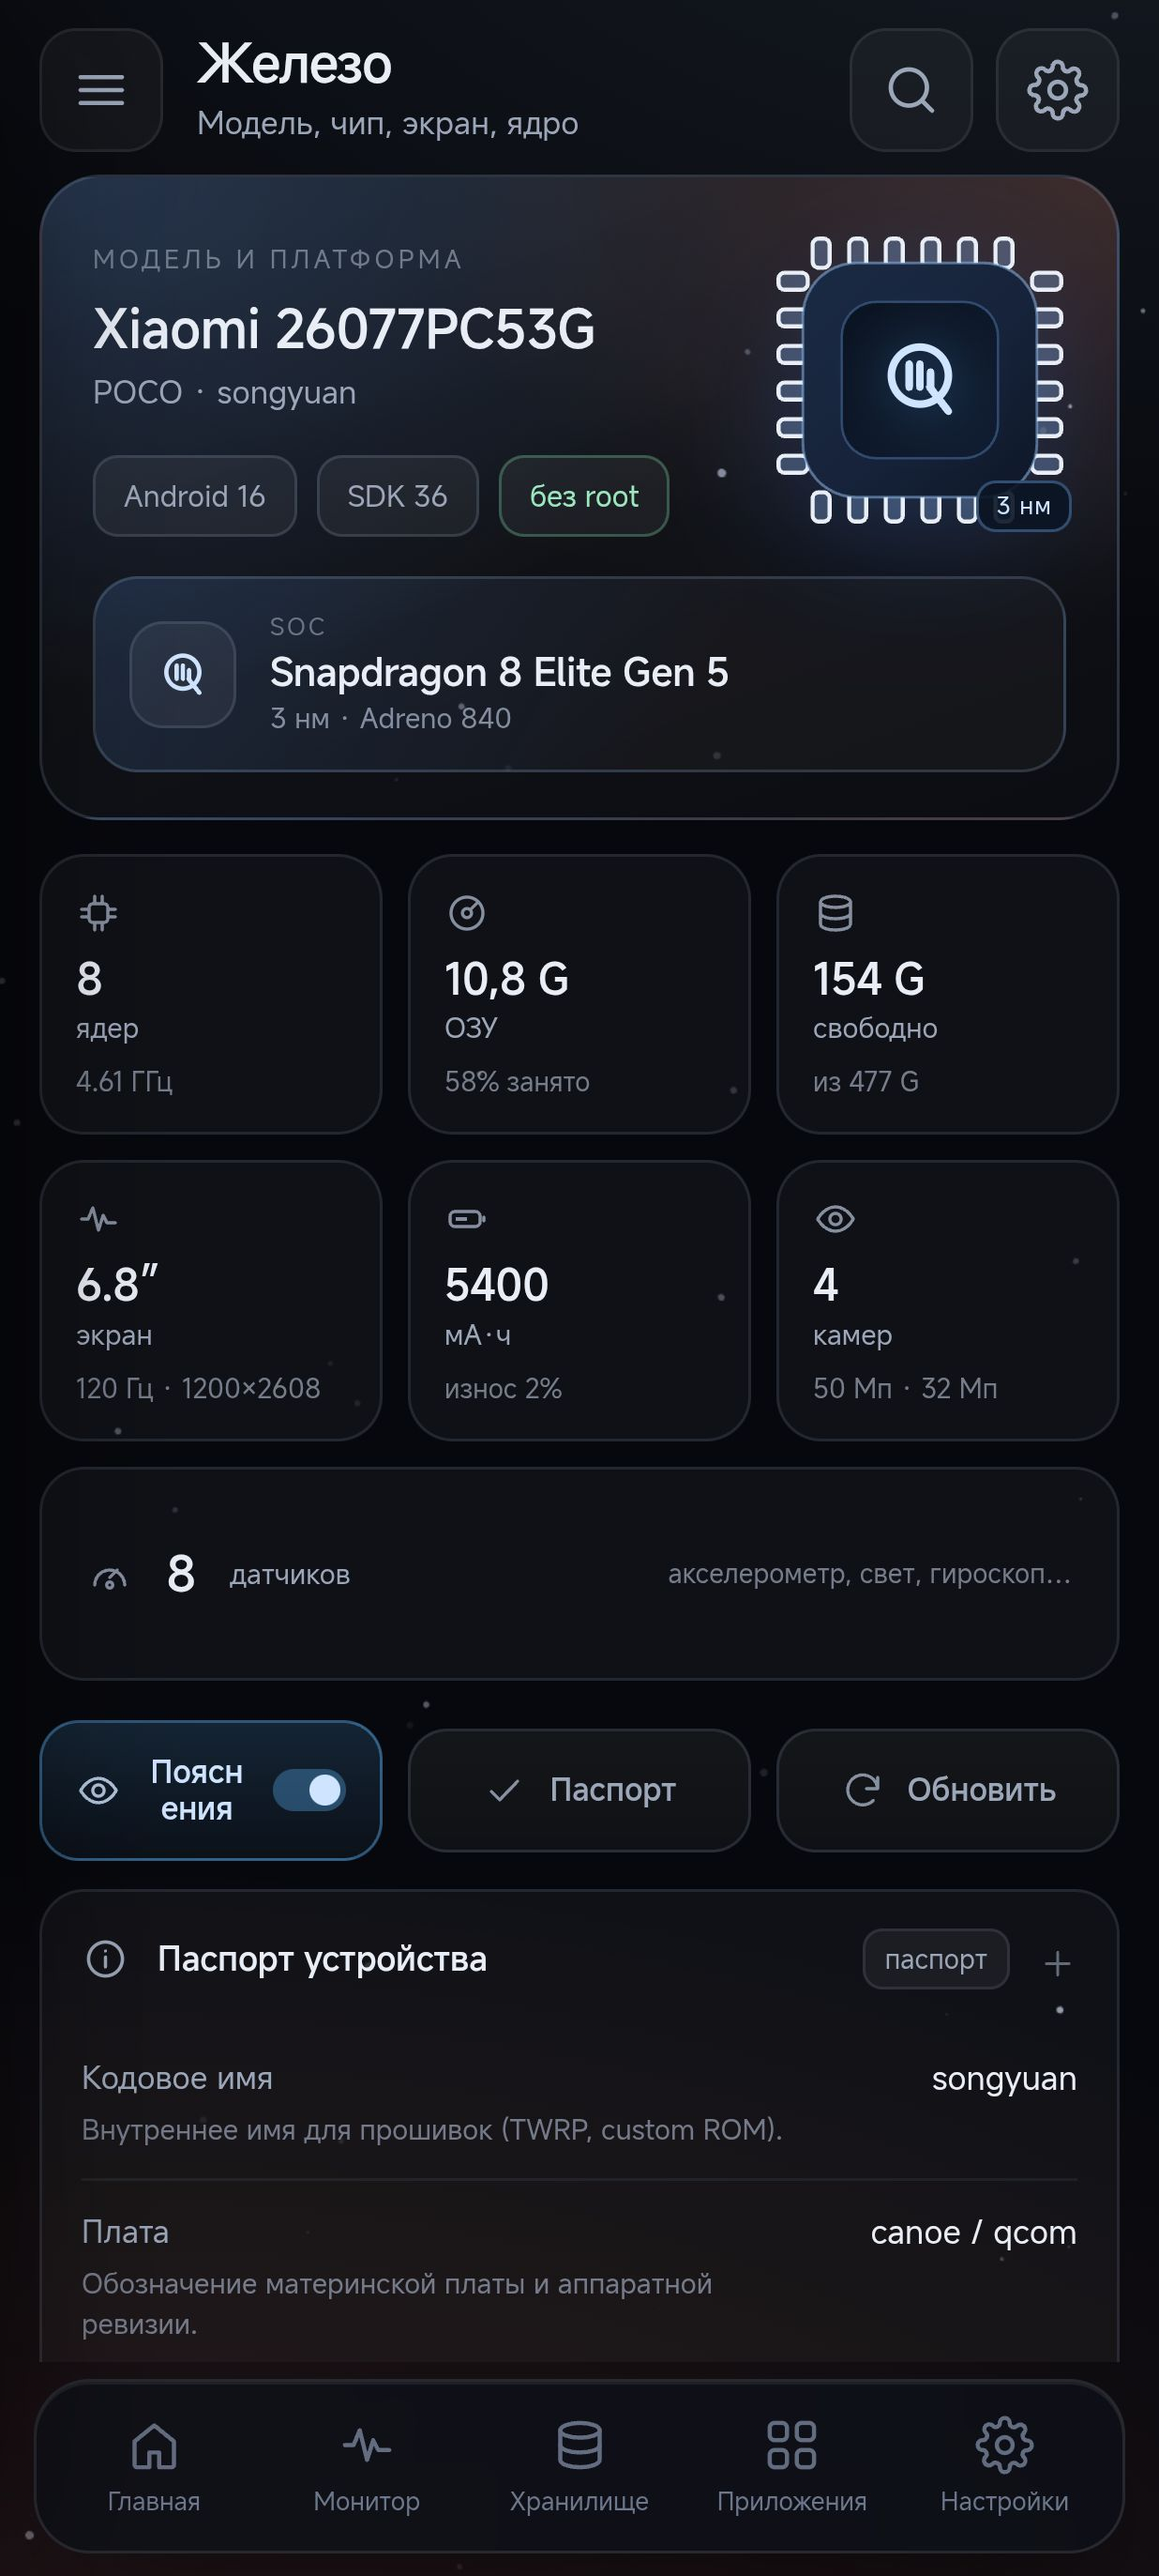
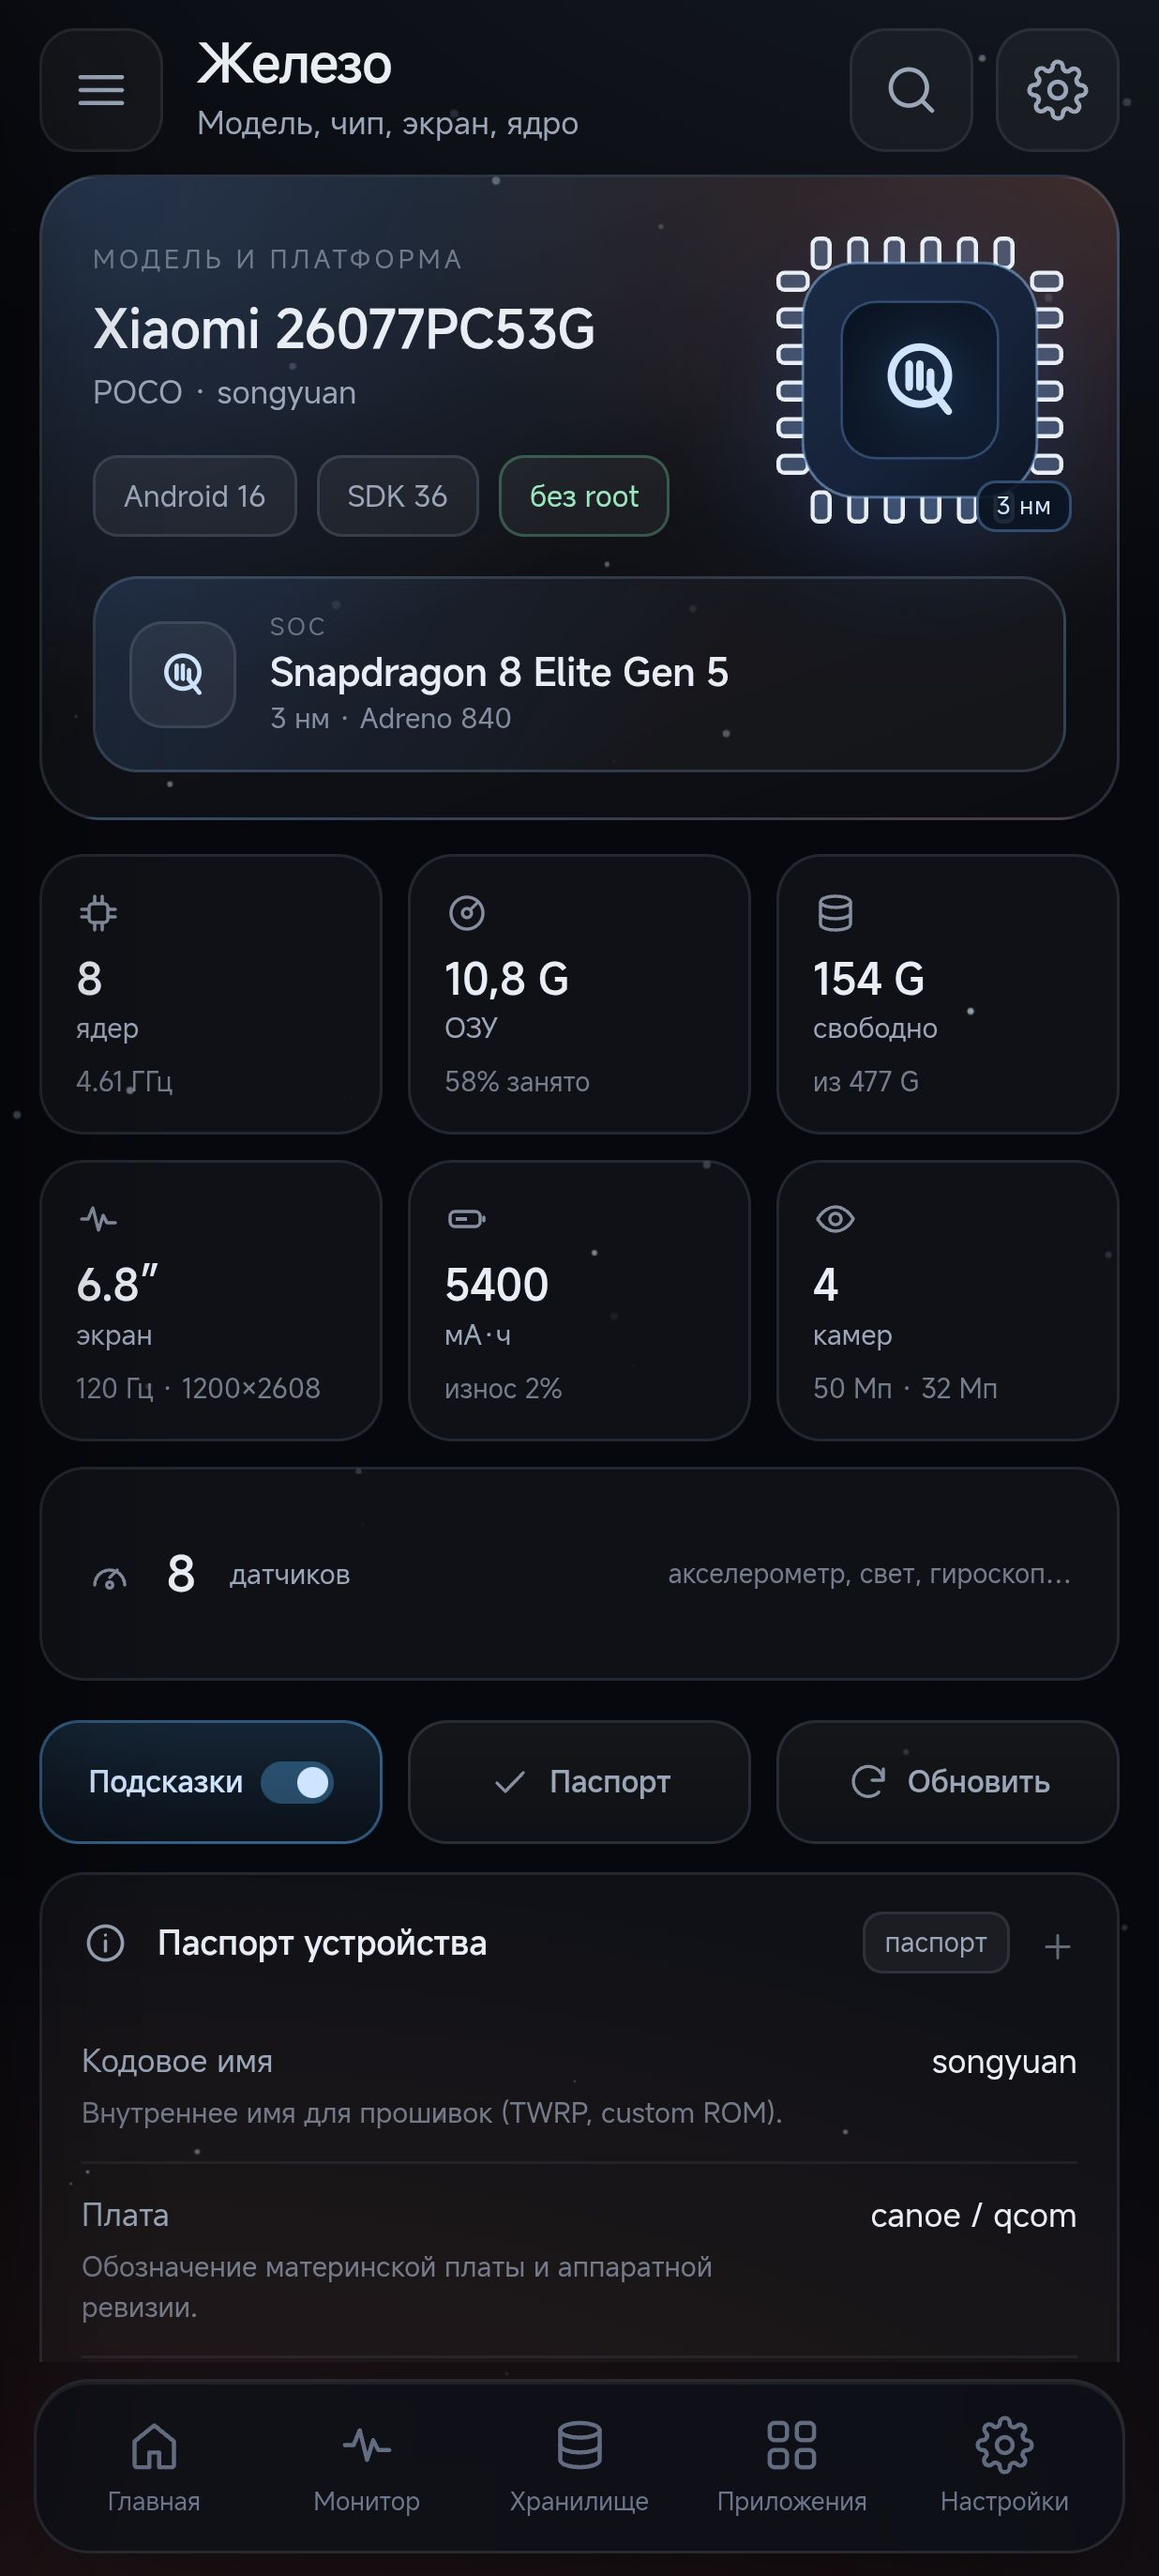
Версия 2.16.0: обновлённые скриншоты

Changed region(s): [[0.0307, 0.6812, 0.6764, 0.929], [0.6764, 0.6812, 0.9531, 0.867], [0.7686, 0.8361, 0.8301, 0.867]]

diff --git a/README.md b/README.md
@@ -10,7 +10,7 @@
 </p>
 
 <p align="center">
-  <img alt="Версия" src="https://img.shields.io/badge/версия-2.15.1%20beta-4F8CFF?style=flat-square">
+  <img alt="Версия" src="https://img.shields.io/badge/версия-2.16.0%20beta-4F8CFF?style=flat-square">
   <img alt="Android" src="https://img.shields.io/badge/Android-8.0%2B-3DDC84?style=flat-square&logo=android&logoColor=white">
   <img alt="Размер" src="https://img.shields.io/badge/APK-73%20МБ-8A93A6?style=flat-square">
   <img alt="Лицензия" src="https://img.shields.io/badge/лицензия-проприетарная-C96A4B?style=flat-square">
@@ -80,6 +80,7 @@
   <img src="docs/home.jpg" width="240" alt="Главная">
   <img src="docs/hardware.jpg" width="240" alt="Железо">
   <img src="docs/monitor.jpg" width="240" alt="Монитор">
+  <img src="docs/projects.jpg" width="240" alt="Другие проекты">
 </p>
 
 ## Установка
